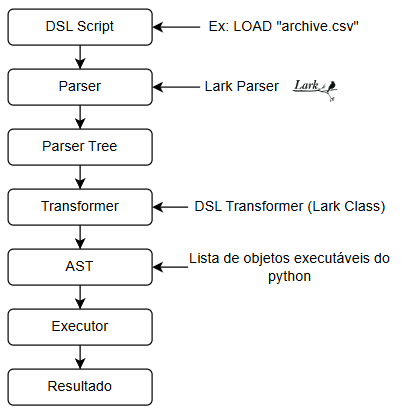
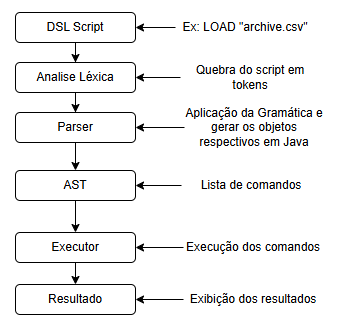
Atualizando README

diff --git a/README.md b/README.md
@@ -103,43 +103,26 @@ Aqui está o diagrama de nossa DSL, com ênfase no que foi alterado pela equipe:
 Essa BNF ilustra apenas uma estrutura básica do que seria possível na linguagem. A ideia é permitir que o usuário escreva, por exemplo:
 
 ```
-LOAD "dados.csv"
-CLEAN DROP "coluna_x"
-CLEAN FILL "idade" WITH 0
-RENAME "nome" TO "nome_completo"
-NORMALIZE
-SAVE "saida.csv"
+LOAD "dataset.csv" AS dados;
+CLEAN dados REPLACE cidade "rio"="rio de janeiro", ""="null";
+CLEAN dados FILL idade = "0", salario = "0";
+TRANSFORM dados ADD idade=1;
+TRANSFORM dados MULT salario=1.2;
+SAVE dados AS "resultado.csv"
 ```
-# [DESATUALIZADA] Arquitetura de funcionamento 
+# Arquitetura de funcionamento 
 
 ![](imgs/image.png)
 
 Passo a passo:
 
-1. É dado um comando na DSL
-2. Parser lê o texto DSL e gera uma árvore (parse tree)
-3. Transformer traduz a parse tree para objetos úteis (AST)
-4. Cada objeto da AST é uma classe que representa uma instrução da DSL em Python
-5. Executor	executa os nós da AST usando pandas
-6. Retorno do resultado para o usuário
+1. É dado um comando na DSL;
+2. Lexer converte o comando em tokens;
+3. Parser interpreta os tokens e transforma em objetos;
+4. A sequência de objetos forma uma lista de comandos para serem executadas (AST);
+5. Executor	executa os nós da AST;
+6. Retorno do resultado para o usuário.
 
-# [DESATUALIZADA] Diagrama de Classes
-
-Estrutura de classes da AST (Abstract Syntax Tree), ou seja, como as instruções da DSL vão ser representadas no código Python.
-
-![](imgs/class_diag.png)
-
-##### [DESATUALIZADA] Classe base
-ASTNode 
- :arrow_right: Classe abstrata, que define a estrutura comum para todos os comandos.
- :arrow_right: Possui os métodos execute e validate, que devem ser sobrescritos por cada comando específico.
-
-##### [DESATUALIZADA] Subclasses 
-Cada comando da DSL é implementado como uma subclasse da ASTNode. 
- - LoadNode: Carrega um arquivo CSV.
- - SaveNode: Salva o DataFrame resultante.
- - NormalizeNode: Normaliza colunas numéricas ou transforma em categóricas
- - DropNode, FillNode, etc.: Realizam operações de limpeza, como remover colunas ou preencher valores ausentes.
 
 
 
